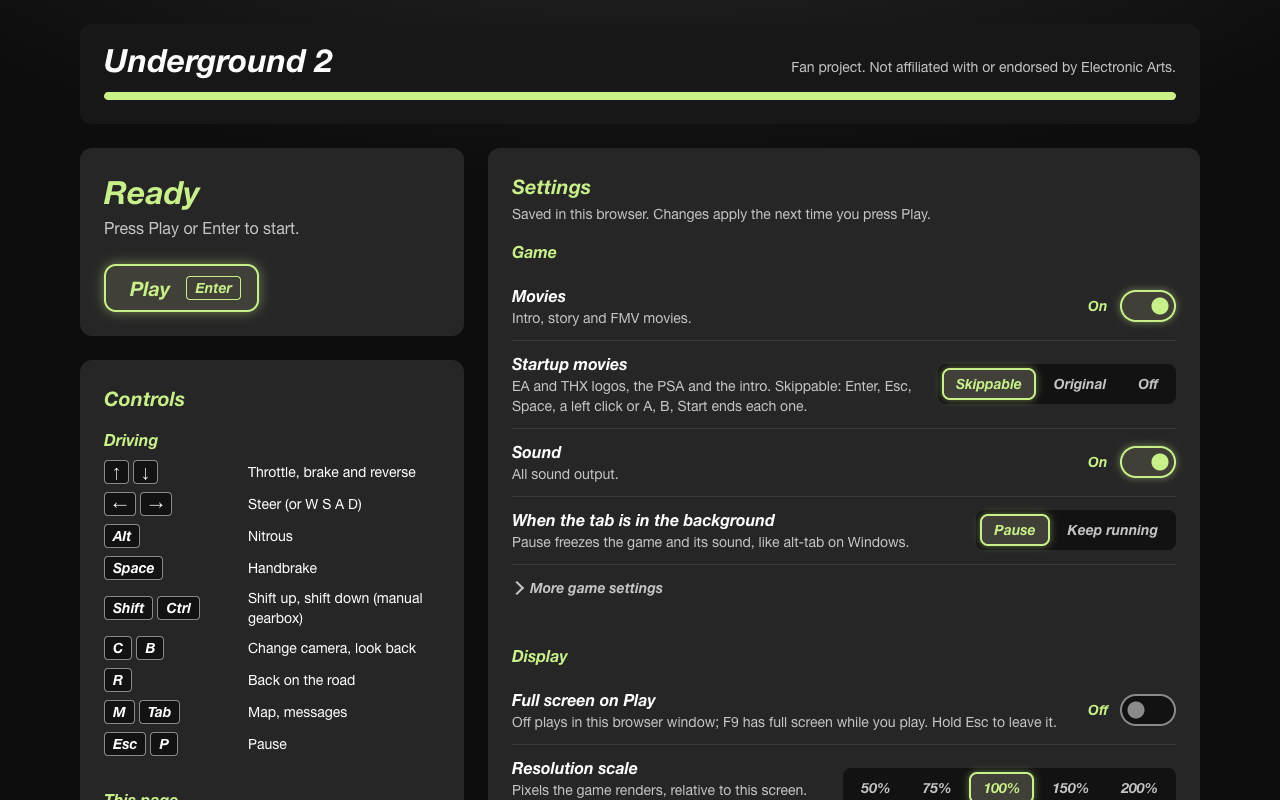
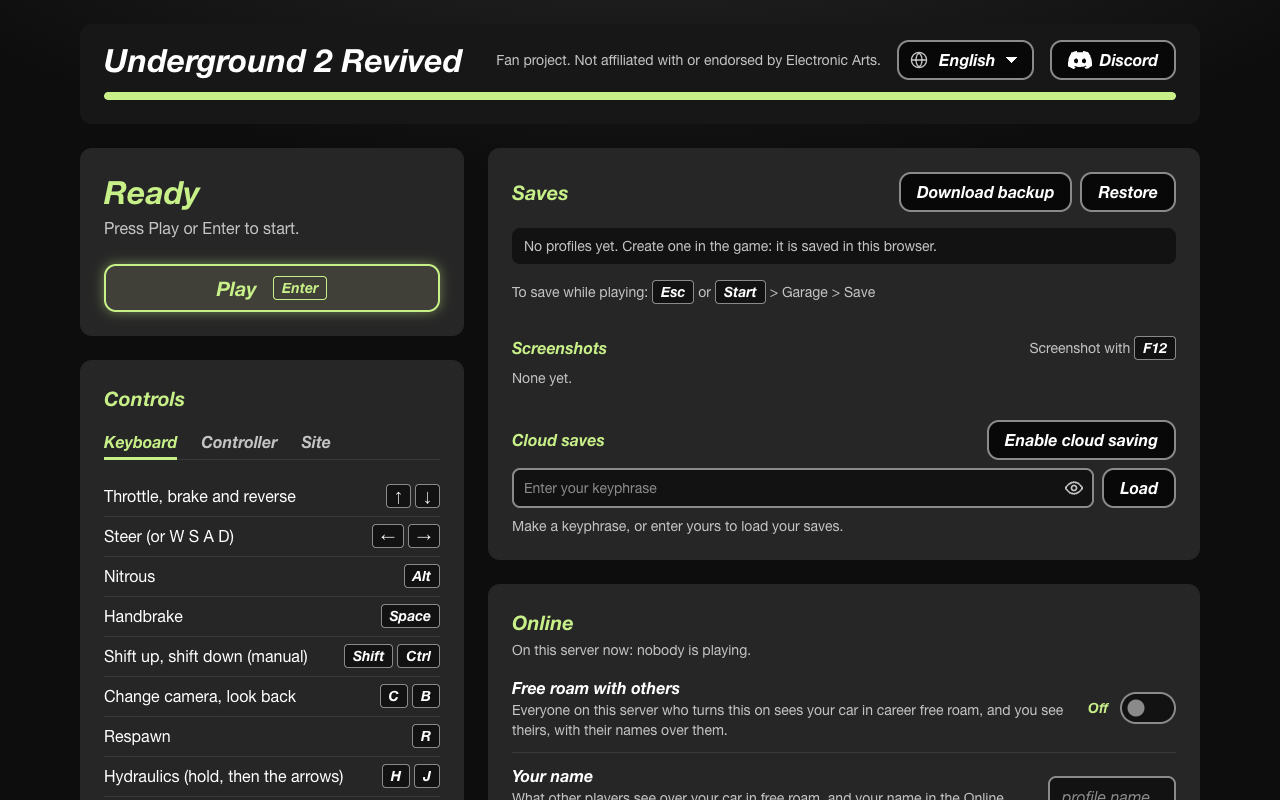
Update the README screenshot
Claude-Session: https://claude.ai/code/session_011ReqBMCkcvnP12nNuGwZUm

diff --git a/README.md b/README.md
@@ -6,7 +6,7 @@ Web Audio. You bring your own copy of the game.
 
 > Not affiliated with or endorsed by Electronic Arts. This repository contains none of the game's code or data.
 
-![The start page: Play, the controls, the settings and your saves](docs/web/start-page.png)
+![The start page: Play, the controls, your saves and Online](docs/web/start-page.png)
 
 ## What you need
 
